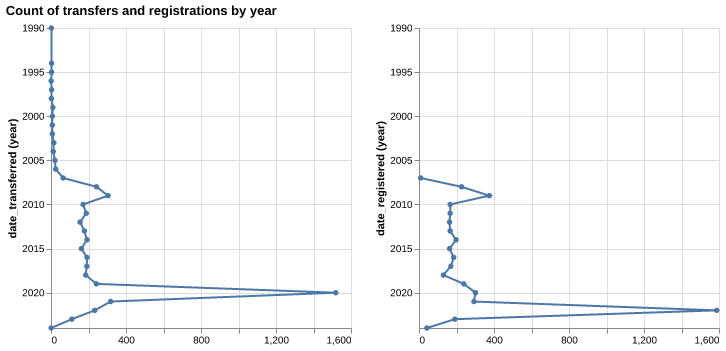
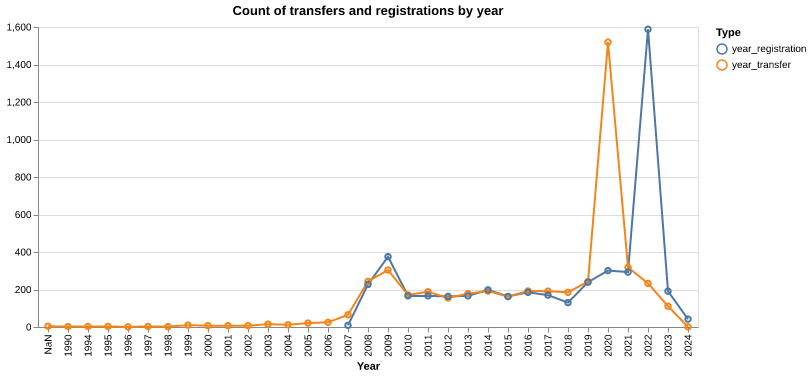
update count of transfers and registrations chart

diff --git a/code/charity_commission.py b/code/charity_commission.py
@@ -124,27 +124,18 @@ df.sort_values('registered-transfer')
 
 # %%
 # count of transfer and registration by year
-chart_transfer_bar = (
-    alt.Chart(df['date_transferred'].to_frame())
-    .mark_line(point=True)
-    .encode(
-        alt.X('count():Q', title=''),
-        alt.Y('year(date_transferred):T').sort('descending'),
-    )
-)
-
-chart_registered_bar = (
-    alt.Chart(df['date_registered'].to_frame())
-    .mark_line(point=True)
-    .encode(
-        alt.X('count():Q', title=''),
-        alt.Y('year(date_registered):T').sort('descending'),
-    )
-)
 
 chart = (
-    alt.hconcat(chart_transfer_bar, chart_registered_bar)
-    .resolve_scale(y='shared')
+    alt.Chart(df[['date_registered', 'date_transferred']])
+    .mark_line(point=alt.OverlayMarkDef(filled=False))
+    .transform_calculate(year_registration='year(datum.date_registered)')
+    .transform_calculate(year_transfer='year(datum.date_transferred)')
+    .transform_fold(['year_registration', 'year_transfer'], as_=['type', 'year'])
+    .encode(
+        alt.X('year:O').title('Year'),
+        alt.Y('count():Q').title(''),
+        alt.Color('type:N').legend(title='Type'), 
+    )
     .properties(title='Count of transfers and registrations by year')
 )
 
